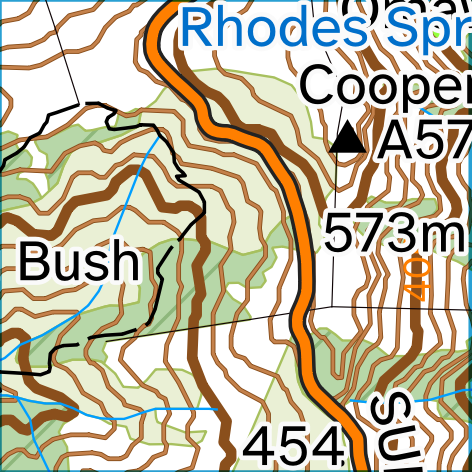
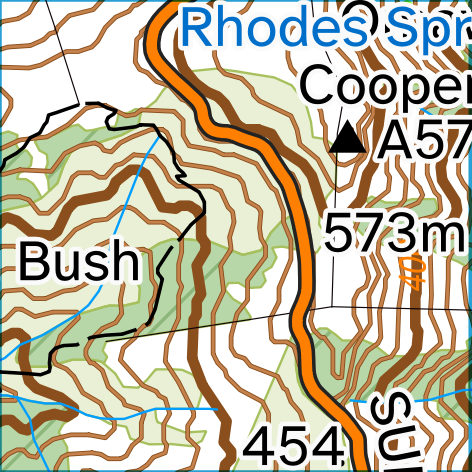
feat: wrap long flat carto names and accept a carto_fit.json drop-in
Flat single names longer than 16 characters wrap at 16. Dual names
keep the break after " / ", because QGIS's own wrap splits them as
"Te | Upoko-o-Kurī | / Witch Hill". A leading "Te " gets a no-break
space so Te stays with the next word. The flat rule's line height is
0.85. Both values live in labels.carto_point.

QGIS tests label boxes as yes or no, and a one-line box is ascent plus
descent (1.3 em), so it cannot minimise ink overlap. The apply step now
reads an optional carto_fit.json beside the project, like dem.tif. A
listed row gets a data-defined bottom-centre position and its line
count. Rows not listed return NULL and keep normal placement. Fit data
is per sheet, so it stays out of the style file. The JSON literal
escapes single quotes for the QGIS expression.

Log 0042 records the box-height finding and the tests that did not
help: tight font metrics, size priority, obstacles, whitespace
handling, and 6 pt spot heights. Adds the BX24 full-face comparison.

diff --git a/tools/override_topo50_project.py b/tools/override_topo50_project.py
@@ -9,6 +9,7 @@ Changes are on the map layers the research names:
 - labels: a multiline carto_text name is split onto the forward passes of a folded baseline
 - labels: stretch-to-fit curved modes use normal letter spacing, so the larger type is not squeezed onto the stock line
 - labels: flat one-line carto_text names sit on a short horizontal line around the stock label, so QGIS can slide or flip a name that collides
+- labels: a flat carto_text name listed in carto_fit.json beside the project is drawn at its fitted point and line count
 - contour: index vs intermediate ink and width, plus an index-ink casing on intermediates (R-04, R-01)
 - track_line map: closed tracks get a heavier line and cross-bars (R-11)
 - track_line map: track access is a reserved unpainted casing_colour channel (R-12)
@@ -443,7 +444,41 @@ CURVED_ONLY_PROPERTIES = (
 )
 ABOVE_BELOW_MAP_ORIENTED = 2 | 4 | 8
 MULTILINE_CENTRE = "1"
-CARTO_FLAT_TEXT = "replace(\"text_string\", ' / ', ' /\\n')"
+CARTO_FLAT_TEXT = "regexp_replace(replace(\"text_string\", ' / ', ' /\\n'), '^Te ', 'Te\u00a0')"
+
+
+def carto_flat_wrap_expression(style=None):
+    """Wrap a long single name; a dual name already breaks after its slash."""
+    chars = (style or STYLE)["labels"]["carto_point"]["wrap_chars"]
+    return (
+        f"CASE WHEN strpos(\"text_string\", ' / ') = 0 AND length(\"text_string\") > {chars}"
+        f" THEN {chars} ELSE 0 END"
+    )
+
+
+CARTO_FIT_FILE = "carto_fit.json"
+
+
+def load_carto_fit(project_dir):
+    """Return fitted flat names by row id from carto_fit.json beside the project, or {} when absent."""
+    if not project_dir:
+        return {}
+    path = os.path.join(project_dir, CARTO_FIT_FILE)
+    if not os.path.isfile(path):
+        return {}
+    with open(path, encoding="utf-8") as handle:
+        return json.load(handle)
+
+
+def carto_fit_value(fit, key):
+    """Expression for one fitted value of this row; NULL for a row with no fit."""
+    literal = json.dumps(fit, separators=(",", ":")).replace("'", "''")
+    return f"map_get(map_get(json_to_map('{literal}'), \"id\"), '{key}')"
+
+
+def carto_fit_text_expression(fit):
+    """A row fitted to one line drops the slash break."""
+    return f"CASE WHEN {carto_fit_value(fit, 'lines')} = 1 THEN \"text_string\" ELSE {CARTO_FLAT_TEXT} END"
 
 
 def carto_flat_line_expression(style=None):
@@ -477,10 +512,11 @@ def _rule(settings, filter_expression, description):
     return rule
 
 
-def patch_carto_point_labels(layer, style=None):
+def patch_carto_point_labels(layer, style=None, fit=None):
     """Let QGIS slide a flat one-line carto_text name a short way, or flip it below its baseline.
 
-    A dual name breaks after its slash, so the label is narrower and easier to place.
+    A dual name breaks after its slash and a long single name wraps, so the label is narrower and easier to place.
+    A row in fit is drawn at its fitted bottom-centre point, on one line or in the default form.
     """
     style = style or STYLE
     labeling = layer.find("labeling")
@@ -502,16 +538,28 @@ def patch_carto_point_labels(layer, style=None):
     placement.set("multipartBehavior", "LabelLargestPartOnly")
     text_style = point.find("text-style")
     if text_style is not None:
-        text_style.set("fieldName", CARTO_FLAT_TEXT)
+        text_style.set("fieldName", carto_fit_text_expression(fit) if fit else CARTO_FLAT_TEXT)
         text_style.set("isExpression", "1")
+        text_style.set("multilineHeight", str(carto["line_height"]))
+        text_style.set("multilineHeightUnit", "Percentage")
     text_format = point.find("text-format")
     if text_format is not None:
         text_format.set("multilineAlign", MULTILINE_CENTRE)
+        text_format.set("useMaxLineLengthForAutoWrap", "1")
     props = _settings_props(point)
     if props is not None:
         for child in list(props):
             if child.get("name") in CURVED_ONLY_PROPERTIES:
                 props.remove(child)
+        wrap = carto_flat_wrap_expression(style)
+        if fit:
+            wrap = f"CASE WHEN {carto_fit_value(fit, 'lines')} = 1 THEN 0 ELSE {wrap} END"
+        put_expr(props, "AutoWrapLength", wrap)
+        if fit:
+            put_expr(props, "PositionX", carto_fit_value(fit, "x"))
+            put_expr(props, "PositionY", carto_fit_value(fit, "y"))
+            put_expr(props, "Hali", "'Center'")
+            put_expr(props, "Vali", "'Bottom'")
     labeling.remove(settings)
     labeling.set("type", "rule-based")
     rules = ET.SubElement(labeling, "rules", {"key": "{" + str(uuid.uuid4()) + "}"})
@@ -519,7 +567,7 @@ def patch_carto_point_labels(layer, style=None):
     rules.append(_rule(point, CARTO_POINT_FILTER, "Flat one-line"))
 
 
-def patch_labels(layer, layer_name, style=None, palette=None):
+def patch_labels(layer, layer_name, style=None, palette=None, fit=None):
     style = style or STYLE
     family = style["fonts"]["raster_family"]
     labels = style["labels"]
@@ -554,7 +602,7 @@ def patch_labels(layer, layer_name, style=None, palette=None):
             put_expr(props, "CurvedLabelMode", curved_label_mode_expression())
     if layer_name == CARTO_TEXT_LAYER:
         patch_wrap_baseline(layer)
-        patch_carto_point_labels(layer, style)
+        patch_carto_point_labels(layer, style, fit)
     patch_label_contrast(layer, style, palette)
     return count
 
@@ -1037,9 +1085,10 @@ def apply(root, project_dir=None):
     labels = 0
     seen = set()
     palette = project_palette(root)
+    fit = load_carto_fit(project_dir)
     for layer in layers.findall("maplayer"):
         name = layer.findtext("layername") or ""
-        labels += patch_labels(layer, name, palette=palette)
+        labels += patch_labels(layer, name, palette=palette, fit=fit)
         if name == "contour":
             patch_contour(layer)
             seen.add(name)

diff --git a/tools/test_tools.py b/tools/test_tools.py
@@ -1,5 +1,6 @@
 #!/usr/bin/env python3
 """Sanity tests for the measurement and rendering tools. Run: python3 tools/test_tools.py"""
+import json
 import os
 import sys
 import tempfile
@@ -695,6 +696,25 @@ def test_springs_and_native_read_the_style_file():
     assert native.get("value").startswith("225,234,195")
 
 
+CARTO_TEXT_LAYER_XML = """
+<maplayer>
+  <layername>nztopo50_carto_text</layername>
+  <labeling type="simple"><settings>
+    <text-style fontFamily="Nimbus Sans LINZ" fontItalic="0" fontSize="7" namedStyle="Regular"/>
+    <placement geometryGenerator="" geometryGeneratorEnabled="0" geometryGeneratorType="PointGeometry"/>
+    <dd_properties><Option type="Map">
+      <Option name="properties" type="Map">
+        <Option name="CurvedLabelMode" type="Map">
+          <Option name="field" type="QString" value="charplace"/>
+          <Option name="type" type="int" value="2"/>
+        </Option>
+      </Option>
+    </Option></dd_properties>
+  </settings></labeling>
+</maplayer>
+"""
+
+
 def test_multiline_baseline_splits_at_a_fold():
     # Catches the estuary name left on one folded line, so the words still stack.
     estuary = [
@@ -710,25 +730,7 @@ def test_multiline_baseline_splits_at_a_fold():
     reverse = [(0.0, 0.0), (400.0, 0.0), (0.0, -80.0)]
     assert len(ov.split_wrap_baseline(reverse, 2)) == 2
     assert ov.split_wrap_baseline(estuary, 1) == [estuary]
-    root = ET.fromstring(
-        """
-        <maplayer>
-          <layername>nztopo50_carto_text</layername>
-          <labeling type="simple"><settings>
-            <text-style fontFamily="Nimbus Sans LINZ" fontItalic="0" fontSize="7" namedStyle="Regular"/>
-            <placement geometryGenerator="" geometryGeneratorEnabled="0" geometryGeneratorType="PointGeometry"/>
-            <dd_properties><Option type="Map">
-              <Option name="properties" type="Map">
-                <Option name="CurvedLabelMode" type="Map">
-                  <Option name="field" type="QString" value="charplace"/>
-                  <Option name="type" type="int" value="2"/>
-                </Option>
-              </Option>
-            </Option></dd_properties>
-          </settings></labeling>
-        </maplayer>
-        """
-    )
+    root = ET.fromstring(CARTO_TEXT_LAYER_XML)
     ov.patch_labels(root, "nztopo50_carto_text")
     assert root.find("labeling").get("type") == "rule-based"
     line_rule, point_rule = root.findall("./labeling/rules/rule")
@@ -756,6 +758,37 @@ def test_multiline_baseline_splits_at_a_fold():
     assert "' /\\n'" in ov.CARTO_FLAT_TEXT
     assert point.get("multipartBehavior") == "LabelLargestPartOnly"
     assert line_rule.find("settings/text-style").get("isExpression") is None
+    # Catches a wrap that also breaks dual names, a lone leading "Te", or the line height left at 1.
+    wrap = point_rule.find(".//Option[@name='AutoWrapLength']/Option[@name='expression']")
+    assert wrap.get("value") == ov.carto_flat_wrap_expression()
+    assert "strpos(\"text_string\", ' / ') = 0" in wrap.get("value")
+    assert "'Te\u00a0'" in ov.CARTO_FLAT_TEXT
+    assert point_text.get("multilineHeight") == str(ov.STYLE["labels"]["carto_point"]["line_height"])
+    assert line_rule.find(".//Option[@name='AutoWrapLength']") is None
+    assert point_rule.find(".//Option[@name='PositionX']") is None
+
+
+def test_carto_fit_places_listed_names():
+    # Catches a fit file that is not read, a fitted row not pinned to its point, or a one-line fit that still breaks.
+    with tempfile.TemporaryDirectory() as folder:
+        assert ov.load_carto_fit(folder) == {}
+        with open(os.path.join(folder, ov.CARTO_FIT_FILE), "w", encoding="utf-8") as handle:
+            json.dump({"row-1": {"x": 1569900.5, "y": 5165760.0, "lines": 1}}, handle)
+        fit = ov.load_carto_fit(folder)
+    root = ET.fromstring(CARTO_TEXT_LAYER_XML)
+    ov.patch_labels(root, "nztopo50_carto_text", fit=fit)
+    point_rule = root.findall("./labeling/rules/rule")[1]
+    props = point_rule.find("settings/dd_properties/Option/Option[@name='properties']")
+    assert ov._expr(props, "PositionX") == ov.carto_fit_value(fit, "x")
+    assert ov._expr(props, "PositionY") == ov.carto_fit_value(fit, "y")
+    assert "1569900.5" in ov._expr(props, "PositionX")
+    assert ov._expr(props, "Hali") == "'Center'"
+    assert ov._expr(props, "Vali") == "'Bottom'"
+    text = point_rule.find("settings/text-style").get("fieldName")
+    assert text == ov.carto_fit_text_expression(fit)
+    assert text.startswith("CASE WHEN ") and ov.CARTO_FLAT_TEXT in text
+    assert ov._expr(props, "AutoWrapLength").startswith("CASE WHEN ")
+    assert "O''Brien" in ov.carto_fit_value({"O'Brien": {"x": 1}}, "x")
 
 
 def test_hillshade_is_an_optional_overlay():

diff --git a/docs/research-log/0042-carto-point-placement.md b/docs/research-log/0042-carto-point-placement.md
@@ -15,6 +15,10 @@ The apply step now splits `nztopo50_carto_text` into two label rules:
 - Flat one-line rows (`text_placement = 1`, `text_orientation = 0`, no line break) get a short horizontal line at the stock baseline. The line is centred on the stock label. It is the estimated accessible label width plus 1 mm at each end. Parallel line placement allows above and below the line, with 0.5 mm overrun. The stock `offset` distance stays.
 - Every other row keeps the curved settings and the fold split.
 
+A flat dual name breaks after its ` / `, so `Ōmawete / Coopers Knob` draws on two centred lines. The line length uses the longer line. The flat rule labels only the largest part of its line, so both text lines draw.
+
+A flat single name longer than 16 characters wraps at 16 (`labels.carto_point.wrap_chars`). A leading `Te ` gets a no-break space, so `Te` stays with the next word. The flat rule's line height is 0.85 (`line_height`).
+
 The width estimate is characters × size × 0.6 em. Atkinson measures 0.45–0.63 em per character on the cold spring names. `AllowOverlapIfRequired` stays. No name is removed.
 
 The four squares were drawn again with QGIS 4.2.3.
@@ -27,14 +31,23 @@ The four squares were drawn again with QGIS 4.2.3.
 - Estuary and Port Hills did not change. Their names are multiline or along a line.
 - Two earlier tries used cartographic point placement around the stock label centre. Orders `O, T, B, R, L, TR, TL, BR, BL` and `O, T, B, TSR, TSL, BSR, BSL, TR, TL, BR, BL` both moved `Ōmawete / Coopers Knob` about 500 m east. QGIS aligns the "slightly" positions to the anchor point, so `TSR` also moves a centred label by half its width. A point label whose anchor is outside the drawn extent is not drawn.
 - `@map_scale` is null in a label geometry generator. The line uses the fixed 1:50,000 sheet scale.
+- On the full BX24 face, the two-line split clears four of six dual names: Adderley, Godley, Cass, and Aua. `Ōmawete /` still overlaps `Rhodes Spring`. `Te Upoko-o-Kurī /` still overlaps `421` and `Te Moeng…`.
+- The flat rule keeps the stock strict line anchor at 50 %. The label stays at the middle of its line, and the allowance gives no sideways move. A 2 mm allowance, the on-line position, and a lower spot-height priority gave no change.
+- With `PreventOverlap`, the two overlapping dual names are not drawn. No free position exists for them.
+- A hint anchor lets QGIS slide the label. It also moves `Godley Head` onto `Gun emplacements` and `Ōrongomai` onto `505`, with free water below `Godley`. Rule priority 5 and label engine version 2 gave the same result. The strict anchor stays.
+- A square or a crop moves labels to fit its extent. Placement is judged on the full face.
+- QGIS sizes a one-line label box from the font ascent plus descent. NZAT Legible Test has 984 + 316 = 1.3 em. On one line, `Ōmawete / Coopers Knob` fits above its baseline in ink, but its box overlaps `Rhodes Spring` and `A579` by about 1 mm. The macron on `Ō` reaches 829, higher than the bottom of the `Spring` descenders (−192), so a box drawn tight to the letters also collides. QGIS then puts the name below, on `A579`.
+- Tighter font metrics (850 / 200), size-based priority, obstacles off, and `IgnoreWhitespaceCollisions` did not move it above. QGIS cannot choose between two texts for one label.
+- Spot heights at 6 pt cleared no name. The wrap clears `South Hagley Park` from `Sch` and `HAGLEY AVE`. QGIS's own wrap breaks `Te | Upoko-o-Kurī | / Witch Hill`, so dual names are not wrapped.
+- At 0.85 line height, `Ōmawete /` sits fully under `Rhodes Spring`.
 
 ## What changed
 
-- `tools/override_topo50_project.py`: `patch_carto_point_labels` and `carto_flat_line_expression`.
-- `tools/style-topo50.json`: `labels.carto_point` (`allowance_mm`, `advance_em`, `overrun_mm`).
-- `tools/test_tools.py`: the carto_text test checks both rules.
-- The four accessible square pictures in `docs/visuals/squares`.
+- `tools/override_topo50_project.py`: `patch_carto_point_labels`, `carto_flat_line_expression`, and `carto_flat_wrap_expression`.
+- `tools/style-topo50.json`: `labels.carto_point` (`allowance_mm`, `advance_em`, `overrun_mm`, `wrap_chars`, `line_height`).
+- `tools/test_tools.py`: the carto_text test checks both rules, the wrap, and the line height.
+- The four accessible square pictures in `docs/visuals/squares`, and the accessible half of `docs/visuals/10-bx24-compare.png`.
 
 ## Confidence & gaps
 
-The width is an estimate. A long all-caps name can be wider than its line. The allowance and the overrun cover the cold spring names. If no free position exists within the allowance, the name overlaps in place. The `map` container runs QGIS 4.2.2. The full sheet has not been exported again.
+The width is an estimate. A long all-caps name can be wider than its line. The allowance and the overrun cover the cold spring names. If no free position exists within the allowance, the name overlaps in place. The `map` container runs QGIS 4.2.2. The full sheet has not been exported again. `docs/visuals/10-bx24-compare.png` shows the full face with the split. We do not know why QGIS moves a sliding label onto a fixed curved label when free space exists. The wrap applies to every long single name, including names that had room. A wrap only where names collide needs a step that renders, measures, and chooses; it would use the same boxes and would not fix the spring.
